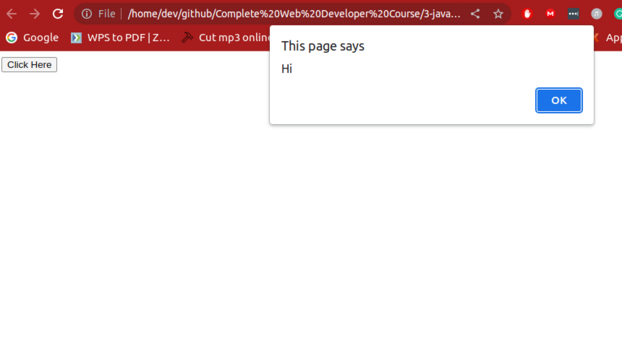
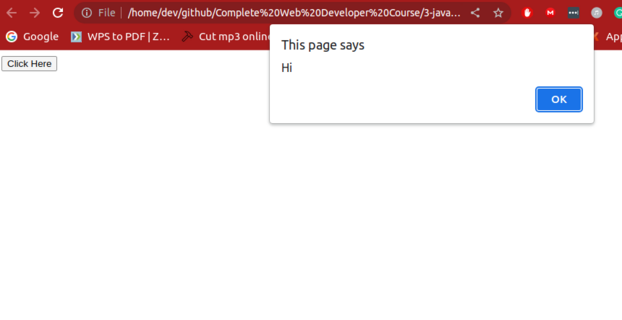
replaced image

diff --git a/notes.html b/notes.html
@@ -168,7 +168,7 @@
         <img src="images/javascript-2.png" width="622" height="382" 
         alt="javascript-2-screenshot">
         <br>
-        <img src-="images/javascript-3.png" width="622"
+        <img src-="images/javascript-3.png" width="622" height="320"
         alt="javascript-3-screenshot">
         <br>
     </main>
